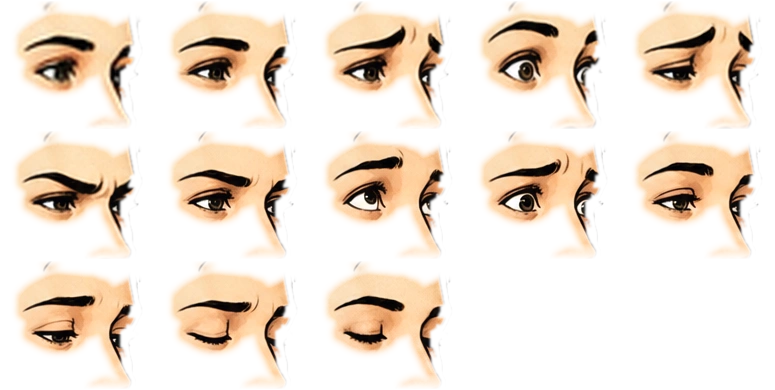
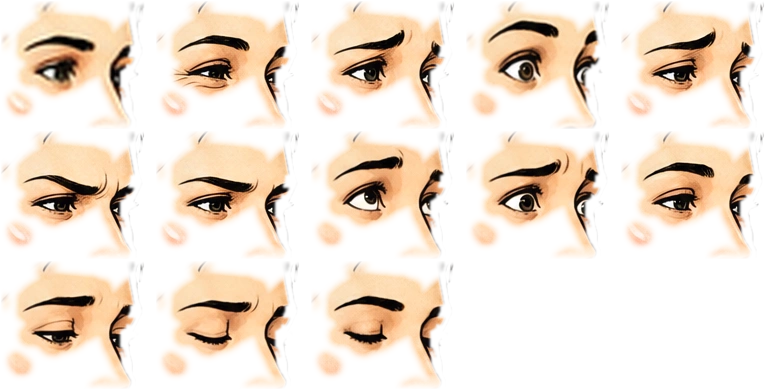
feat(figures): round 3 expressions from the original head (happy lifts cheeks and narrows the eyes with smile lines, angry brows at her own weight, determined/proud/worried/sad), mouth patch ends above the chin and keeps contour ink out (no chin smudge), faceState exposes the swap phase and the pain

diff --git a/engine-mvp/src/figures/puppet.ts b/engine-mvp/src/figures/puppet.ts
@@ -11,7 +11,7 @@ import {
 import type { Placement, StageLike } from './figure'
 import { STAIN_DEFAULT, stainSize } from '../stage25d/ground'
 import { GL_NOISE, makeStain } from '../stage25d/ground-gl'
-import { EMOTIONS, EMOTION_NAMES, FaceLife, FaceRig, LIFE, loadFaceAtlas, seedOf, type BodyOffsets, type FaceMark, type FaceMeta, type FaceParams } from './face'
+import { EMOTIONS, EMOTION_NAMES, FaceLife, FaceRig, LIFE, loadFaceAtlas, seedOf, type BodyOffsets, type FaceMark, type FaceMeta, type FaceParams, type Paint } from './face'
 import { LINE_BY_DEPTH_GLSL, PAPER_GLSL } from '../stage25d/layer'
 import { pxPerMetre, pxUV, type Line, type Paper } from '../stage25d/look'
 import type { Asset, Library } from '../stage25d/types'
@@ -352,7 +352,7 @@ export type Puppet = {
   setTalking(on: boolean): void                 // the mouth cycles (a silent balloon moment: only the narrator speaks)
   setEmotionKeys(keys: { t: number; emotion: string }[] | null, clock?: () => number): void // a per-figure emotion keyframe track
   advance(dt: number): void                     // step the life clock by dt seconds (the render loop calls it; tests too)
-  faceState(): { params: FaceParams; blink: number; body: BodyOffsets; emotion: string; seed: number; emote: { name?: string; amount: number; want: boolean } }
+  faceState(): { params: FaceParams; paint: Paint; swap: number; blink: number; body: BodyOffsets; emotion: string; seed: number; emote: { name?: string; amount: number; want: boolean } }
   dispose(): void
 }
 
@@ -559,7 +559,7 @@ export async function createPuppet(scene: Scene, id: string, opts: PuppetOptions
       rig.setEmote(lifeOut.emote, LIFE.emotes > 0, dt)
       draw()
     },
-    faceState: () => ({ params: lifeOut.face, blink: lifeOut.blink, body: lifeOut.body, emotion: life.emotion, seed: life.seed, emote: rig.emoteState() }),
+    faceState: () => ({ params: lifeOut.face, paint: lifeOut.paint, swap: lifeOut.swap, blink: lifeOut.blink, body: lifeOut.body, emotion: life.emotion, seed: life.seed, emote: rig.emoteState() }),
     setView(v, mirror = false) {
       state.want = v
       flip.scaling.x = mirror ? -1 : 1

diff --git a/engine-mvp/src/figures/face.ts b/engine-mvp/src/figures/face.ts
@@ -120,7 +120,7 @@ export class FaceLife {
   }
 
   /** advance dt seconds; walking calms the weight shift and tilt */
-  step(dt: number, walking = false): { face: FaceParams; blink: number; body: BodyOffsets; emote: EmotionDef['emote']; paint: Paint } {
+  step(dt: number, walking = false): { face: FaceParams; blink: number; body: BodyOffsets; emote: EmotionDef['emote']; paint: Paint; swap: number } {
     this.t += dt
     if (this.tweenT < 1) this.tweenT = Math.min(1, this.tweenT + (dt * 1000) / this.tweenMs)
     const k = easeInOut(this.tweenT)
@@ -176,6 +176,7 @@ export class FaceLife {
     // = the swap, half, new open) and the mouth cuts on that same frame; a plain blink is half then closed; talking cuts
     // between painted mouths
     let eye = this.emotion, mouth = this.emotion
+    const swap = this.swapT // 0..1 while the face swaps behind a blink (the checkers read it), -1 otherwise
     if (this.swapT >= 0) {
       const u = this.swapT
       mouth = u < 0.5 ? this.prev : this.emotion
@@ -187,7 +188,7 @@ export class FaceLife {
     if (talk > 0.02) mouth = [this.emotion, 'talk_a', 'talk_ah', 'talk_wide'][Math.round(talk * 3)]
     const eyes: Paint['eyes'] = [eye, eye, 0], mouthP: Paint['mouth'] = [mouth, mouth, 0]
     return {
-      paint: { eyes, mouth: mouthP },
+      paint: { eyes, mouth: mouthP }, swap,
       face: {
         eyeOpen: open * (1 - blink), eyeOpenF: openF * (1 - blink), gaze: [c[2] + this.gaze[0], c[3] + this.gaze[1]],
         brow: [c[4], c[5], c[6], c[7]], mouth: [c[8], mouthOpen, c[10], c[11]],

diff --git a/engine-mvp/src/figures/face.test.ts b/engine-mvp/src/figures/face.test.ts
@@ -194,6 +194,15 @@ describe('the painted face parts', () => {
     const cut = mouths.indexOf('sad'); expect(seen[cut]).toBe('closed') // the mouth changes while the lids are shut
     expect(l.step(0.5).paint.eyes[0]).toBe('sad')
   })
+  it('exposes the swap phase through faceState (0..1 while the face swaps behind a blink, -1 at rest)', async () => {
+    LIFE.on = 0
+    const { p } = await make()
+    p.advance(0.5); p.advance(0.5); expect(p.faceState().swap).toBe(-1)
+    p.setEmotion('angry', 220); p.advance(0.02)
+    const sw = p.faceState().swap; expect(sw).toBeGreaterThanOrEqual(0); expect(sw).toBeLessThan(1)
+    expect(['neutral', 'half', 'closed', 'angry']).toContain(p.faceState().paint.eyes[0])
+    p.advance(0.5); p.advance(0.5); expect(p.faceState().swap).toBe(-1)
+  })
   it('a plain blink runs open, half, closed and back', () => {
     LIFE.blinkMin = LIFE.blinkMax = 0.1; LIFE.blinkMs = 400; LIFE.doubleBlink = 0
     const l = new FaceLife(3)

diff --git a/engine-mvp/src/figures/cut_face_parts.py b/engine-mvp/src/figures/cut_face_parts.py
@@ -15,13 +15,14 @@ from pathlib import Path
 
 CELL, K, HEAD_AT, HEAD_BOX = 512, 2.9, (9, 31), (70, 45)     # head_src = sheet crop (70,45)+ at 2.9x, pasted at (9,31)
 EYES = (290, 160, 155, 130)                                  # x, y, w, h in cell px
-MOUTH = (322, 298, 128, 142)
+MOUTH = (322, 298, 128, 112)   # ends above the chin: a dropped jaw stays the sprite's own
 FEATHER = 3.5
 DIFF_THR, GROW, TONE_SIGMA, TONE_MAX = 44, 6, 14, 28
 EDGE = 16                                                   # px the patch fades out before the rect's own border
 NAMES = [['neutral', 'happy', 'worried', 'surprised', 'sad', 'angry'],
          ['determined', 'thinking', 'scared', 'proud', 'tired', 'closed'],
          ['half', 'talk_a', 'talk_ah', 'talk_wide', 'talk_oo', 'talk_smile']]
+S4 = ['happy', 'angry', 'determined', 'proud', 'worried', 'sad']                # round 3: re-edited from the original with stronger expressions (s4_export.png), they replace the same names above
 EYE_STATES = ['neutral', 'happy', 'worried', 'surprised', 'sad', 'angry', 'determined', 'thinking', 'scared', 'proud',
               'tired', 'closed', 'half']
 MOUTH_STATES = ['neutral', 'happy', 'worried', 'surprised', 'sad', 'angry', 'determined', 'thinking', 'scared', 'proud',
@@ -104,10 +105,14 @@ def main(paint, out, stand_png):
     h = rd(paint / 'head_src.png'); src[HEAD_AT[1]:HEAD_AT[1] + h.shape[0], HEAD_AT[0]:HEAD_AT[0] + h.shape[1]] = h
     gen = {n: cell(s, i) for s, row in zip(sheets, NAMES) for i, n in enumerate(row)}
     control = gen['neutral']
+    s4 = paint / 's4_export.png'
+    if s4.exists():
+        for i, n in enumerate(S4):
+            gen[n] = cell(rd(s4), i)
     tone = np.clip(cv2.GaussianBlur(src - control, (0, 0), TONE_SIGMA), -TONE_MAX, TONE_MAX)   # original minus the re-render, low frequency
     cells = {n: (src if n == 'neutral' else np.clip(c + tone, 0, 255)) for n, c in gen.items()}
     ci = contour_ink(src)
-    hm, hm_mouth = head_mask(src) * (1 - ci), head_mask(src, 21)   # an open mouth drops the jaw past the sprite's chin: the patch stops inside the contour
+    hm, hm_mouth = head_mask(src) * (1 - ci), head_mask(src, 21) * (1 - contour_ink(src, 16))   # an open mouth drops the jaw past the sprite's chin: the patch stops inside the contour
     ew, eh, mw, mh = EYES[2], EYES[3], MOUTH[2], MOUTH[3]
     ea, ma = region_alpha(gen, control, EYES, hm), region_alpha(gen, control, MOUTH, hm_mouth)
 
